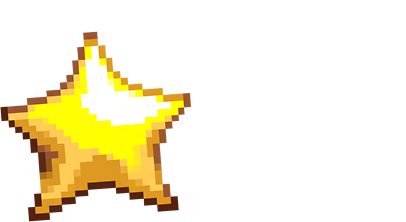
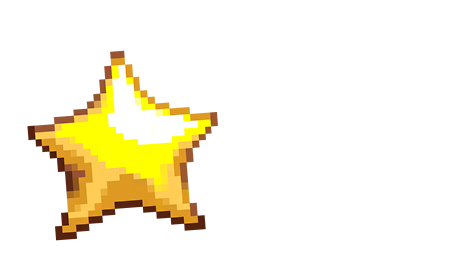
Refine style on stars.

Changed region(s): [[0.0, 0.1351, 0.4729, 1.0]]

diff --git a/src/components/levellist/ScoreStars.vue b/src/components/levellist/ScoreStars.vue
@@ -1,5 +1,6 @@
 <template>
 <div class="score-stars">
+  <div class="stars-shadow" />
   <div class="left-star-enabled"
     v-show="hasSpeed" />
   <div class="left-star-disabled"
@@ -50,6 +51,10 @@ export default {
         position: absolute;
     }
 
+    .stars-shadow {
+        background-image: url("../../game/images/stars-shadow.png");
+        opacity: 0.3;
+    }
     .left-star-enabled {
         background-image: url("../../game/images/star-left-enabled.png");
     }

diff --git a/src/components/levellist/LevelItem.vue b/src/components/levellist/LevelItem.vue
@@ -9,7 +9,7 @@
 
   <score-stars :score="score"
     :level="level"
-    v-show="!locked" />
+    v-show="!locked && score && score.won" />
 </li>
 </template>
 
